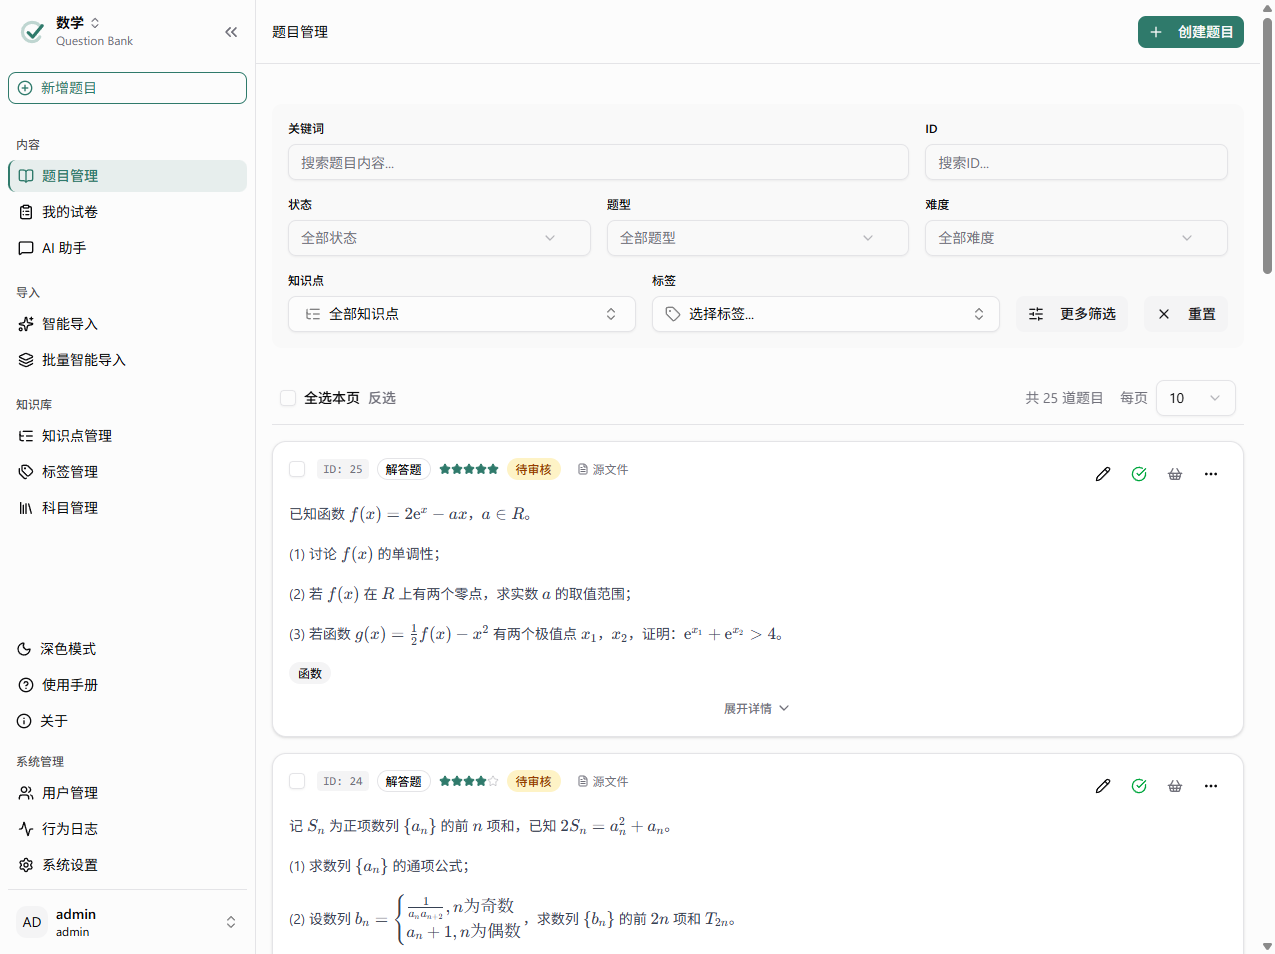
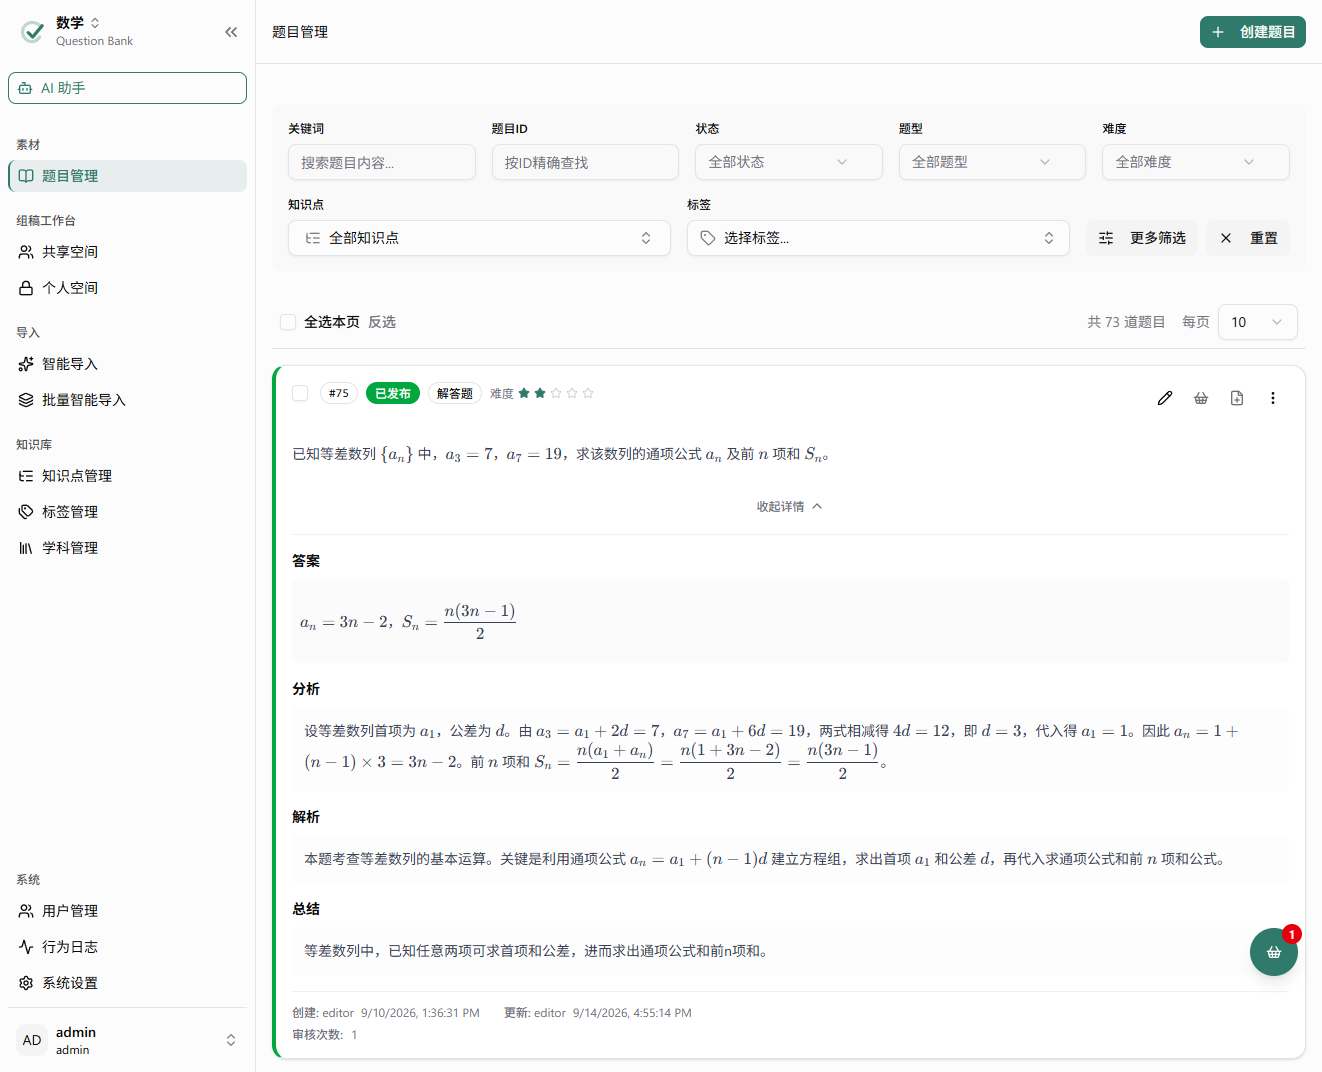
Refactor code structure for improved readability and maintainability

diff --git a/README.md b/README.md
@@ -1,14 +1,46 @@
-# Question Bank —— AI 原生的题库系统
+# QuestionBank —— AI 原生的题库与组稿系统
 
-## 预览
+**QuestionBank** 是面向教师与教研团队的 AI 原生题库与组稿系统，覆盖 AI 智能导入、多学科题库管理、知识点匹配、审核发布与稿件编排。支持 Windows 桌面版和服务器版，既可个人使用，也可在局域网或团队环境中协作。
 
-<p align="center">
-  <img src="./docs/public/examples/questions.png" alt="题库管理" width="49%" />
-  <img src="./docs/public/examples/smart-import_dark.png" alt="智能导入" width="49%" />
-</p>
+![题库示例](./docs/public/examples/questions.png)
+![组稿示例](./docs/public/examples/compositions.png)
 
+## ✨ 核心功能
 
-## 文档与反馈
+| 模块 | 说明 |
+| ------ | ------ |
+| 组稿工作台 | 个人 / 共享空间与文件夹归档、试题篮收集、自由排版与题号 / 分值 / 显示控制、定稿快照版本，导出 Word / LaTeX |
+| 智能导入 | Word / Markdown / 图片，以及带本地图片的 .zip 或整个文件夹；AI 智能抽取或标签精准解析，三步流程（上传 → 审核 → 入库）。详见 [智能导入](https://gygy-open.github.io/question-bank/features/import) |
+| 题库管理 | 多条件筛选、批量操作、知识点 / 标签关联、母子题结构、富文本 + 表格 + LaTeX、公开 / 私有可见性、软删除 |
+| AI 助手 | 对话中智能找题、创建稿件，并对当前稿件提出增删 / 移动 / 分值等修改；改动先预览，由你应用或放弃 |
+| 知识点体系 | 按学科组织的树形知识点，向量化入库，支持 RAG 自动匹配 |
+| 学科 & 权限 | 多学科体系、按学科授予只读 / 可编辑 / 学科负责人角色、成员管理。详见 [权限与角色](https://gygy-open.github.io/question-bank/admin/permissions) |
+| 标签管理 | 标签分类管理、Excel 批量导入 |
+| 审核工作流 | 草稿 → 待审 → 发布 → 归档，审核日志完整记录 |
+| AI 对话 | 多模型聊天（支持图片），可选 Provider / Model，对话历史持久化 |
+| 用户 & 登录 | 用户管理、登录统计 |
+| 操作审计 | 全局活动日志，支持分页与筛选 |
+| 系统设置 | AI Provider / Model 热配置、Prompt Template 管理（超管专属）。详见 [AI 供应商与模型](https://gygy-open.github.io/question-bank/admin/ai-config) |
+| 文件预览 | DOCX / Markdown 源文件在线预览 |
+
+## 🚀 快速体验 (Quick Start)
+
+推荐直接下载**桌面版**：一个 Windows 托盘应用，内置后端、前端与 SQLite 数据库，**无需安装数据库或 Docker**，双击安装即可使用。
+
+1. 打开 [GitHub Releases](https://github.com/gygy-open/question-bank/releases)，下载最新的 `QuestionBank-Setup-x.y.z.exe`。
+2. 双击运行安装程序，按向导完成安装。
+3. 安装后应用以**托盘图标**常驻任务栏右下角，右键 → 「打开题库」进入初始化向导（创建管理员账号）即可使用。
+
+数据统一存放在 `%APPDATA%\QuestionBank`，关闭应用后直接复制该目录即可备份。
+
+详见文档：[安装与首次启动](https://gygy-open.github.io/question-bank/desktop/install) · [个人使用](https://gygy-open.github.io/question-bank/desktop/personal)
+
+## 🌐 其他部署方式
+
+- **局域网共享** — 桌面版打开共享开关，让同网段的同事一起用，无需额外部署。详见 [局域网共享](https://gygy-open.github.io/question-bank/desktop/lan-sharing)。
+- **服务器版（Docker Compose）** — 多人协作 / 生产环境，完整 MySQL + ChromaDB 技术栈，直接拉取预构建镜像一键启动，无需本地构建。详见 [Docker Compose 部署](https://gygy-open.github.io/question-bank/server/docker)。
+
+## 📚 文档与反馈
 
 📖 在线文档：<https://gygy-open.github.io/question-bank/>
 
@@ -25,79 +57,7 @@
   </tr>
 </table>
 
-## 快速体验 (Quick Start)
-
-推荐直接下载**桌面版**：一个 Windows 托盘应用，内置后端、前端与 SQLite 数据库，**无需安装数据库或 Docker**，双击安装即可使用。
-
-1. 打开 [GitHub Releases](https://github.com/gygy-open/question-bank/releases)，下载最新的 `QuestionBank-Setup-x.y.z.exe`。
-2. 双击运行安装程序，按向导完成安装。
-3. 安装后应用以**托盘图标**常驻任务栏右下角，右键 → 「打开题库」进入初始化向导（创建管理员账号）即可使用。
-
-数据统一存放在 `%APPDATA%\QuestionBank`，关闭应用后直接复制该目录即可备份。
-
-详见文档：[安装与首次启动](https://gygy-open.github.io/question-bank/desktop/install) · [个人使用](https://gygy-open.github.io/question-bank/desktop/personal)
-
-## 其他部署方式
-
-- **局域网共享** — 桌面版打开共享开关，让同网段的同事一起用，无需额外部署。详见 [局域网共享](https://gygy-open.github.io/question-bank/desktop/lan-sharing)。
-- **服务器版（Docker Compose）** — 多人协作 / 生产环境，完整 MySQL + ChromaDB 技术栈，直接拉取预构建镜像一键启动，无需本地构建。详见 [Docker Compose 部署](https://gygy-open.github.io/question-bank/server/docker)。
-
-## 核心特性
-
-- **AI 原生**：从导入、知识点匹配到答案解析全流程由大模型驱动，而非事后附加的插件功能
-- **双形态部署**：同一套代码既是「双击即用」的 Windows 桌面版（内置 SQLite），也是 Docker 一键起的服务器版（MySQL + ChromaDB）
-- **隐私隔离**：核心业务与向量数据留在本地/内网，只把脱敏题目文本发给 AI，数据库与 AI 服务物理隔离
-- **专业内容**：多题型 + 富文本 + LaTeX 公式，覆盖理科出题场景；填空支持多解
-- **可控可审计**：草稿 → 待审 → 发布 → 归档 的审核工作流，配合软删除与全局操作日志
-- **AI 供应商自由**：Gemini、OpenAI 及所有 OpenAI 兼容 API（DeepSeek、通义、私有部署等），配置存于数据库、可热切换
-
-## 主要功能
-
-| 模块 | 说明 |
-|------|------|
-| 智能导入 | 上传 Word / Markdown / 图片，AI 自动抽取结构化题目（三步流程：上传 → 审核 → 入库） |
-| 题库管理 | 多条件筛选、批量操作、知识点/标签关联、母子题结构编辑、软删除 |
-| 知识点体系 | 按学科组织的树形知识点，向量化入库，支持 RAG 自动匹配 |
-| AI 对话 | 多模型聊天（支持图片），可选 Provider / Model，对话历史持久化 |
-| 审核工作流 | 草稿 → 待审 → 发布 → 归档，审核日志完整记录 |
-| 学科 & 标签 | 学科 CRUD、标签分类管理 |
-| 用户 & 权限 | 用户管理、角色控制、登录统计 |
-| 操作审计 | 全局活动日志，支持分页与筛选 |
-| 系统设置 | AI Provider / Model 热配置、Prompt Template 管理（超管专属） |
-| 文件预览 | DOCX / Markdown 源文件在线预览 |
-
-## 架构与设计
-
-系统采用前后端分离 + AI 服务解耦的设计，支持桌面版（SQLite）与服务器版（MySQL + ChromaDB）两种形态，并对核心数据与外部 AI 服务做隔离。
-
-完整的架构总览、安全隔离设计、技术架构图与知识点 RAG 流程图，详见 [架构文档](https://gygy-open.github.io/question-bank/development/architecture)。
-
-## 本地开发
-
-### 技术栈
-
-| 层 | 技术 |
-|---|---|
-| 前端 | Nuxt 4 (SPA) · Vue 3.5 · TypeScript · Tailwind v4 · Shadcn UI · Tiptap · KaTeX · MathLive |
-| 后端 | Python 3.13 · FastAPI · SQLAlchemy 2.0 (Async) · Alembic · Pydantic |
-| 数据 | MySQL 8 · ChromaDB · 本地文件系统 |
-| AI | Google Gemini · OpenAI 兼容 API |
-| 部署 | Docker Compose · Nginx |
-
-### 快速上手
-
-```bash
-# 后端
-cd backend && uv sync && uv run alembic upgrade head
-uv run fastapi dev app/main.py        # 另开终端跑 uv run python -m app.worker
-
-# 前端
-cd frontend && pnpm install && pnpm dev
-```
-
-完整的环境准备、目录结构、后端 / 前端约定与 AI 服务配置，详见文档：[本地开发](https://gygy-open.github.io/question-bank/development/local-setup) · [后端约定](https://gygy-open.github.io/question-bank/development/backend) · [前端约定](https://gygy-open.github.io/question-bank/development/frontend)
-
-## 开源协议
+## 📄 开源协议
 
 本项目采用 [AGPL-3.0-or-later](./LICENSE) 协议。这意味着：
 
@@ -106,6 +66,10 @@ cd frontend && pnpm install && pnpm dev
 - ⚠ **通过网络提供服务时**，必须公开你的修改代码
 - ⚠ 衍生作品必须使用相同的 AGPL 协议
 
-## 贡献指南
+## 🤝 贡献指南
 
-欢迎贡献！请阅读 [CONTRIBUTING.md](./CONTRIBUTING.md)。
+欢迎提交 Issue 和 Pull Request。开发环境、项目架构与代码约定请参阅：
+
+- [贡献指南](./CONTRIBUTING.md)
+- [开发文档](https://gygy-open.github.io/question-bank/development/local-setup)
+- [架构文档](https://gygy-open.github.io/question-bank/development/architecture)
